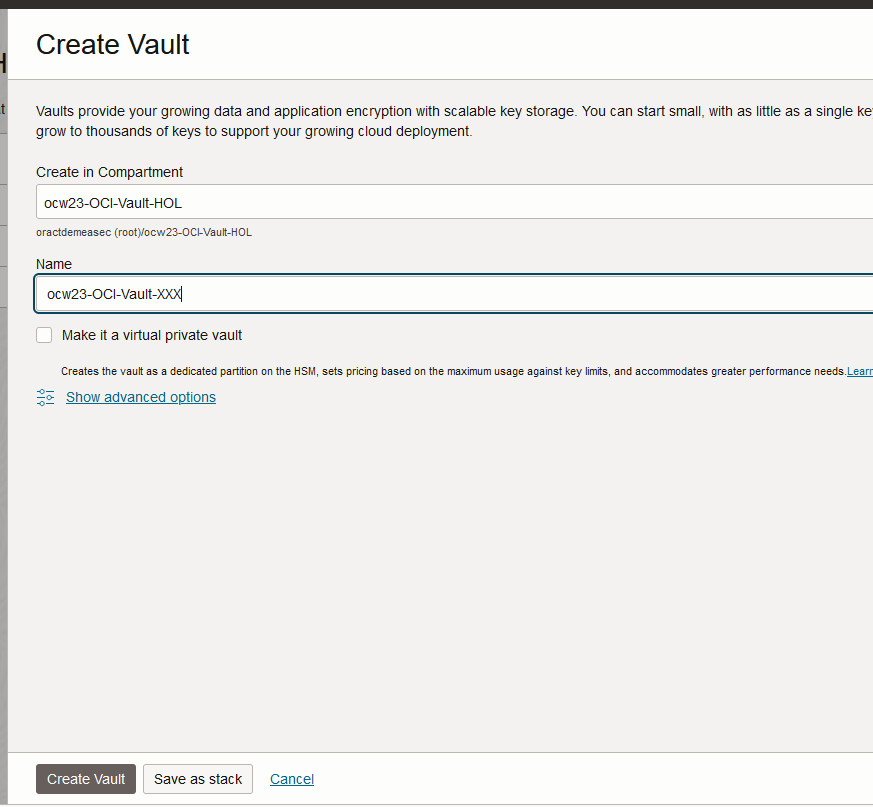
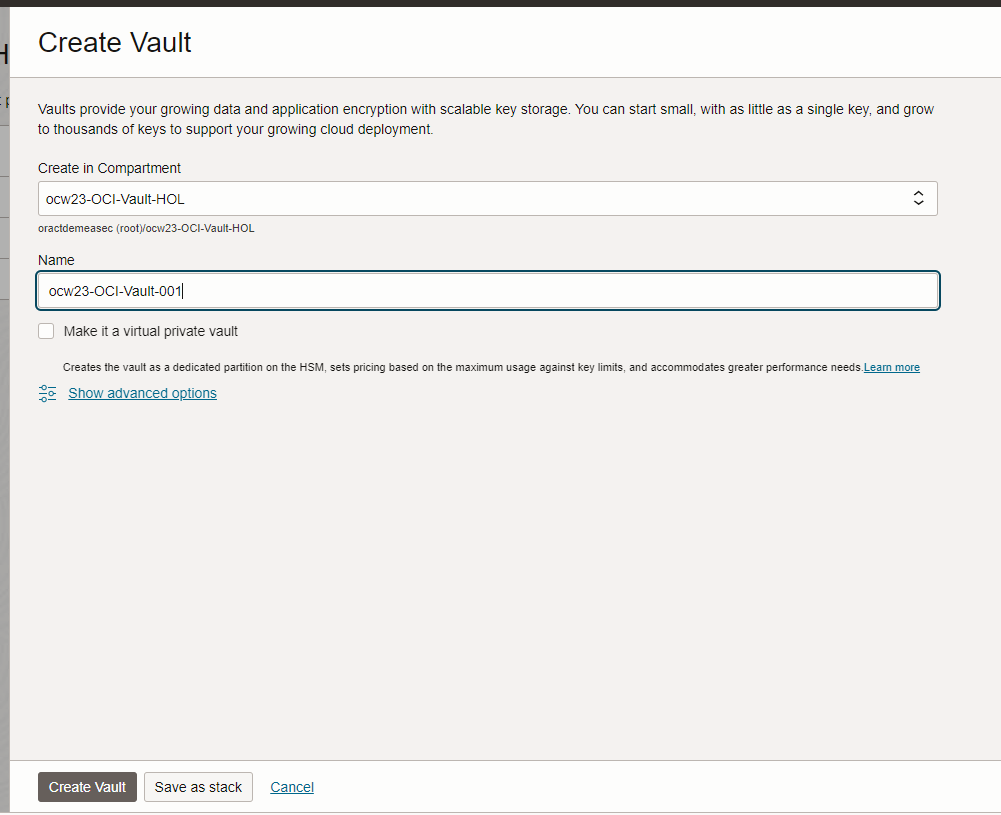
Updates
Updates

diff --git a/oci-kms/create-connection/create-connection.md b/oci-kms/create-connection/create-connection.md
@@ -25,7 +25,7 @@ This lab assumes you have:
 
 ## Task 1: Connect to OCI and create your own Vault in OCI Vault
 
-You need below parameters to configure OCI connection to integrate with CCKM.
+You need below parameters to configure OCI connection to integrate with CTM.
 * **Tenancy OCID:** OCID of the tenancy.
 * **User OCID:** OCID of the user.
 * **Region:** An Oracle Cloud Infrastructure region.
@@ -47,7 +47,7 @@ Each vault has a management endpoint and a cryptography endpoint. To create a Va
 
     ![Create Vault](images/select-compartment-create-vault.png)
 
-4. Enter a name for your Vault. Please follow the naming convention:
+4. Enter a name for your Vault. Please follow the naming convention: ocw23-OCI-Vault-XXX where XXX is your number student.
 
      ![Enter name for Vault](images/create-name-vault.png)
 
@@ -55,11 +55,11 @@ Each vault has a management endpoint and a cryptography endpoint. To create a Va
 
     ![Vault successfully created](images/vault-created.png)
 
-6. In order to configure CCKM Oracle connection, we must add an API Key (a RSA key pair) for the user. CCKM will use the private key to make connection to OCI and call its API. To do that, navigate through the main hamburger menu to *"Identity & Security > Identity > Users"*
+6. In order to configure CTM Oracle connection, you must add an API Key (a RSA key pair) for your user. CTM will use the private key to make connection to OCI and call its API. To do that, click on the top right user profile icon in OCI console and select **User Settings**
 
-    ![Users](images/users-apikey.png)
+    ![User Settings](images/user-settings.png)
 
-7. You will be able to see the list of users in the tenant. Once you click on your user name, you will be able to see all your user details. In the menu on the left called *"Resources"*, select API Keys. Click *"Add API Key"*.
+7. In the menu left, navigate to Resources and API Keys. Click *"Add API Key"*.
 
     ![Add API Key](images/add-apikey.png)
 
@@ -71,66 +71,83 @@ Each vault has a management endpoint and a cryptography endpoint. To create a Va
 
     ![Configuration file](images/configuration-file.png)
 
-Copy all the information on notepad as it will be used to create connection between Oracle and CCKM.
+Copy all the information on notepad as it will be used to create connection between Oracle and CTM.
+
 
 
 
 
 ## Task 2: Configuring CipherTrust Manager Connection to Oracle
 
-1. From the training platform, open Windows Server.
-2. Open your browser and enter the CipherTrust IP Address as the site name.
-3. The Login window opens.
-4. Enter the following:
+In this task you will create a connection from CipherTrust Manager in Thales platform to Oracle. 
 
-You are now logged into the web GUI console.
-5. On the left pane, expand Access Management, and then click Connections.
+CipherTrust Cloud Key Manager (CTM) solution is part of the Thales CipherTrust Manager. It is designed to address enterprise needs for encrypting data in the cloud while retaining custodianship of encryption keys, to comply with data security mandates in cloud storage environments. The solution uses an already-installed CipherTrust Manager (CM) as the underlying appliance that generates, stores, and retrieves encryption keys used by the CTM servers. The keys and CTM are administered by a Web based graphic interface (Management Console), Command Line Interfaces (CLI) and command-line utilities. The encryption keys are maintained on the Thales CipherTrust Manager Appliance.
 
-6. Click the + Add Connection button to open the Add Connection wizard. The wizard consists of the following steps:
-    * Select Connection Type : Select “Cloud” : “Oracle Cloud Infrastructure”
-    * General Info: provide a Name and Description (optional) for the new connection.
-    * Configure Connection: 
-        * Tenancy OCID: OCID of the tenancy.
-        * User OCID: OCID of the user.
-        * Region: An Oracle Cloud Infrastructure region.
-        * Fingerprint: Fingerprint of the public key added to this user.
-        * Key File: Private key file for the OCI connection in the PEM format. Either upload the key file or paste the file content.
-        * File Upload: Select and click Upload Certificate to upload the key file from your machine.
-        * Text: Select and paste the certificate content in the text field.
-        * Passphrase: Passphrase of the encrypted key file.
-        * Click Test Credentials to check whether the connection is configured correctly. If the test is successful, the status is OK else the status is Fail.
-        Click Next to move to the next step.
-    * Add Products: Use the check boxes in the Products list to select Cloud Key manager”
-
-7. Click the **Cloud** icon.
-
-8. Under **Select Cloud type**, select **Oracle Cloud Infrastructure**, and then click **Next**.
-
-9. Enter the connection name in the **Name** field, and then click **Next**.
-
-10. Add connection with product Cloud Key Manager aka CCKM.
-
-11. Under **Configure Connection**, enter the following parameters:
-
-    * **Tenancy OCID:** OCID of the tenancy.
-    * **User OCID:** OCID of the user.
-    * **Region:** An Oracle Cloud Infrastructure region.
-    * **Fingerprint:** Fingerprint of the public key added to this user.
-    * **Key File:** Private key file for the OCI connection in the PEM format. Either upload the key file or paste the file content.
-    * **File Upload:** Select and click Upload Certificate to upload the key file from your machine.
-    * **Text:** Select and paste the certificate content in the text field.
-    * **Passphrase:** Passphrase of the encrypted key file.
-
-12. Click Test Credentials to check whether the connection is configured correctly. If the test is successful, the status is OK else the status is Fail. Click Next to move to the next step.
-
-13. From the connection pane you will get an option to test the connection again.
-
-14. Your connection state should be **Ready.** 
-
-    > Note:  If the test does not succeed, check the CipherTrust Network configuration.
+CTM is a hardened appliance (Ubuntu) for optimum security and comprises/integrates with MongoDB for secure storage. CipherTrust Cloud Key Manager is delivered as a virtual appliance that can be installed either on-premises (by deploying an .ova file) or on Amazon Web Services (by deploying an Amazon Machine Image (AMI)) or from Azure Marketplace. The features and functionality are the same for both deployment scenarios.
 
 
-## Task 3: Configuring the CCKM Connection to Oracle
+1. Go to the following URL to access [CipherTrust Manager as a Service](https://us1.ciphertrust.dpondemand.io/?tenant=oracle-OracleCTM).
+
+    ![Log in to CipherTrust Manager](images/ctm-login.png "Log in to CipherTrust Manager")
+
+2. Enter the credentials you have been provided with. You are now logged into the CipherTrust Manager web console.
+
+    ![CipherTrust Manager web console](images/ctm-page.png "CipherTrust Manager web console")
+
+3. On the left pane, expand Access Management, and then click Connections.
+
+    ![Connection](images/create-connection.png "Connection")
+
+4. Click the + Add Connection button to open the Add Connection wizard. The wizard consists of the multiple steps.
+
+    ![Add connection](images/add-connection.png "Add connection")
+
+5. Select Connection Type : Select “Cloud” : “Oracle Cloud Infrastructure”
+
+     ![Connection type](images/connection-type.png "Connection type")
+
+6. General Info: provide a Name and Description (optional) for the new connection.
+
+    ![Connection name](images/name-connection.png "Connection name")
+
+7. Configure Connection. In this step you have to enter the information you got in your configuration file previously saved, after you created your API key:
+
+    * Tenancy OCID: OCID of the tenancy.
+    * User OCID: OCID of the user.
+    * Region: An Oracle Cloud Infrastructure region.
+    * Fingerprint: Fingerprint of the public key added to this user.
+    * Key File: Private key file for the OCI connection in the PEM format. Either upload the key file or paste the file content.
+    * File Upload: Select and click Upload Private Key to upload the key file from your machine.
+    * Text: Select and paste the certificate content in the text field.
+    * Passphrase: Passphrase of the encrypted key file.
+    * Click Test Credentials to check whether the connection is configured correctly. If the test is successful, the status is OK else the status is Fail. Click Next to move to the next step.
+
+    ![Connection details](images/connection-details.png "Connection details")
+
+
+    ![Successful connection](images/successful-connection.png "Successful connection")
+
+
+
+8. Add Products: Use the check boxes in the Products list to select Cloud Key manager.
+
+    ![Add Product](images/add-cloudkeymanager.png "Add Product")
+
+9. Click Add Connection.
+
+
+10. Now you have to test the connection:
+
+    
+    ![Test connection](images/test-connection.png "Test connection")
+
+
+11. Your connection state should be **Ready.** 
+
+      ![Connection ready](images/tested-connection.png "Connection ready")
+
+
+## Task 3: Configuring the CTM Connection to Oracle
 
 1. Log into the CipherTrust Manager Web UI.
 2. Click the Cloud Key Manager application.
